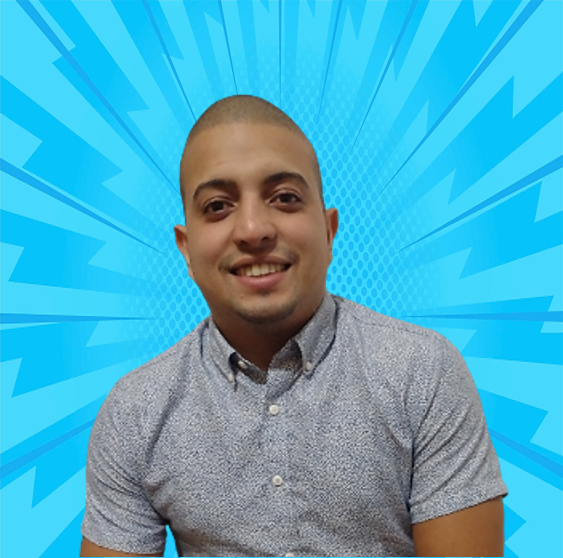
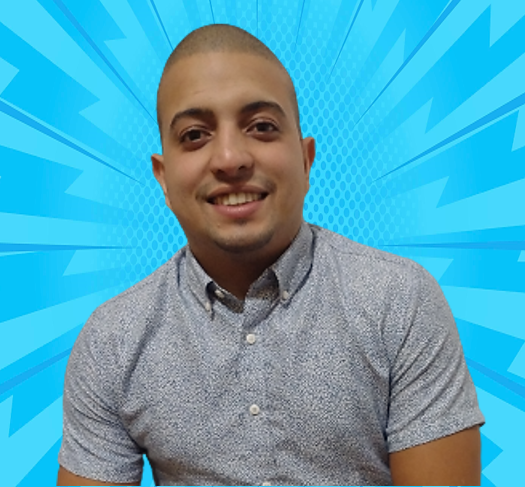
Act 25/06/23

diff --git a/styles.css b/styles.css
@@ -1,45 +1,45 @@
 body {
     background-image: url(./fondo.jpg);
-    font-family: 'Sniglet', sans-serif;
-    font-size: 15px;
-    margin: 0;
-    padding: 0;
     width: 100%;
     height: 100%;
+    font-family: 'Sniglet', sans-serif;
+    margin: 0;
+    padding: 0;
+    font-size: 15px;
 }
 
-ul {
-    padding: 10px;
+h2 {
+    font-size: 30px;
+    font-weight: bold;
 }
 
-.column_1 {
+.column_left {
     display: flex;
     flex-direction: column;
     align-items: center;
-    row-gap: 30px;
     width: 100%;
 }
 
-.column_1 nav {
+.column_left nav {
     width: 100%;
 }
 
 .profile_image_container {
     max-width: 800px;
-    border-radius: 20px;
-    overflow: hidden;
+    border-radius: 50px;
     margin-bottom: 20px;
 }
 
 .profile_image_container img {
     width: 100%;
     height: 100%;
+    border-style: solid;
+    border-color: #000000;
+    border-radius: 50%;
 }
 
-.personal_information ul {
-    list-style: none;
-    padding: 0;
-    margin: 0;
+ul {
+    padding: 10px;
 }
 
 nav ul {
@@ -52,28 +52,30 @@ nav ul {
 }
 
 nav ul a li {
+    text-decoration: none;
     display: flex;
     align-items: center;
     justify-content: center;
-    background-color: #fff;
-    border-radius: 10px;
-    padding: 20px;
+    background-color: #00000094;
+    padding: 10px;
+    border-radius: 50px;
     cursor: pointer;
-    transition: all 0.3s ease;
-    text-decoration: none;
 }
 
 nav ul a li:hover {
-    background-color: #ff5100;
-    color: #fff;
+    background-color: #00d0f562;
+    color: #000000;
+    border-color: #000000;
+    border-style: solid;
 }
 
 nav ul a {
+    color: #ffffff;
     text-decoration: none;
-    color: #000;
+
 }
 
-.column_2 {
+.column_right {
     width: 100%;
     display: flex;
     flex-direction: column;
@@ -81,10 +83,9 @@ nav ul a {
 }
 
 .card {
-    background-color: #fff;
+    background-color: #00d0f562;
     padding: 10px 30px;
-    border-radius: 5px;
-    box-shadow: 20px 20px 50px rgba(0, 0, 0, 0.2);
+    border-radius: 20px;
 }
 
 .lista_iconos {
@@ -114,7 +115,11 @@ nav ul a {
 
 @media screen and (min-width: 768px) {
     body {
-        font-size: 18px;
+        font-size: 20px;
+    }
+
+    h2 {
+        font-size: 30px
     }
 
     .container_main {
@@ -128,11 +133,11 @@ nav ul a {
         height: unset;
     }
 
-    .column_1 {
+    .column_left {
         width: 30%;
     }
 
-    .column_2 {
+    .column_right {
         width: 70%;
     }
 

diff --git a/CV.html b/CV.html
@@ -16,27 +16,24 @@
 <body>
     <main class="container_main">
 
-        <section class="column_1">
+        <section class="column_left">
+            <h2>JESUS PERDOMO</h2   >
             <article class="profile_image_container">
-                <img src="./Foto.png" alt="image-user">
+                <img src="Foto_perfil1.png" alt="image-user">
             </article>
-
-            <article class="personal_information">
-                <h2>Jesus Perdomo</h2>
-                <h3><em>Developer in progress</em></h3>
-            </article>
+            <h3><em>Developer in progress</em></h3>
 
             <nav>
                 <ul>
-                    <a href="#about_me" class="links-izq">
+                    <a href="#about_me" class="links-left">
                         <li><span class="icon-user-tie"></span>Acerca de mi</li>
                     </a>
-                    <a href="#formacion" class="links-izq">
+                    <a href="#formacion" class="links-left">
                         <li><span class="icon-pencil"></span>Formacion</li>
                     </a>
-                    <a href="#experiencia" class="links-izq">
+                    <a href="#experiencia" class="links-left">
                         <li><span class="icon-profile"></span>Experiencia</li>
-                        <a href="#contacto" class="links-izq">
+                        <a href="#contacto" class="links-left">
                             <li><span class="icon-address-book"></span>Datos de contacto</li>
                         </a>
                 </ul>
@@ -46,7 +43,7 @@
 
 
 
-        <section class="column_2">
+        <section class="column_right">
             <article class="aboutme_container card" id="about_me">
                 <h3>Acerca de mi</h3>
                 <p> Soy profesional en el area de Administracion, actualmente estudiando Desarrollo Web</p>
@@ -68,7 +65,6 @@
             <article class="contacto_container card" id="contacto">
                 <h3>Datos de Contacto</h3>
             </article>
-
         </section>
 
     </main>

diff --git a/fonts_icons.css b/fonts_icons.css
@@ -19,6 +19,7 @@
   font-variant: normal;
   text-transform: none;
   line-height: 1;
+  margin-right: 12px;
 
   /* Better Font Rendering =========== */
   -webkit-font-smoothing: antialiased;
